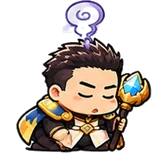
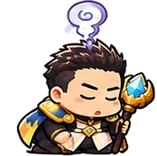
Normalise 추진팀장/개발팀장 pose sizes to the standing pose
- Scale run/attack/victory frames so the figure height (effects excluded)
  matches the idle pose; hit/down use the run scale
- 추진팀장 action frames get an extra 0.9 factor because the standalone
  idle art has a smaller head ratio than the sheet
- Drop the earlier per-team 1.14 / idle-canvas workarounds

Claude-Session: https://claude.ai/code/session_01MvzzvQc6xr2KAW6vgqiYJS

diff --git a/tools/build_sprites.py b/tools/build_sprites.py
@@ -290,6 +290,24 @@ CAPTAINS = {
     }),
 }
 CAP_SCALE = 170 / 245  # 모든 프레임 동일 배율
+# 자세별 인물 키 / 대기 자세 인물 키 (추진·개발팀장: 어떤 자세든 서 있을 때와 비슷한 크기로 보이게)
+POSE_RATIO_TEAMS = ('push', 'dev')
+POSE_RATIO = {'run': 0.95, 'atk': 1.0, 'victory': 1.0}
+# 추진팀장 대기 그림(단독 일러스트)은 시트보다 머리가 작은 비율이라, 동작 그림을 조금 낮춰야 같은 크기로 보임
+POSE_TEAM_K = {'push': 0.9, 'dev': 1.0}
+
+def fig_height(im):
+    """이펙트(파란 글로우·노란 빛)를 뺀 인물 덩어리의 세로 길이"""
+    a = np.array(im.convert('RGBA')).astype(int)
+    r, g, b, al = a[..., 0], a[..., 1], a[..., 2], a[..., 3]
+    fx = ((b > 170) & (b - r > 70)) | ((r > 200) & (g > 180) & (b < 140))
+    m = (al > 128) & ~fx
+    lab, n = ndimage.label(ndimage.binary_dilation(m, iterations=2))
+    if n == 0:
+        return im.height
+    k = int(np.argmax(ndimage.sum(m, lab, range(1, n + 1)))) + 1
+    ys = np.where((lab == k) & m)[0]
+    return ys.max() - ys.min() + 1
 for team, (fname, needs_bg, B) in CAPTAINS.items():
     sheet = Image.open(os.path.join(SRC, fname))
     if sheet.mode == 'RGBA' and needs_bg:
@@ -311,27 +329,41 @@ for team, (fname, needs_bg, B) in CAPTAINS.items():
         sheet = sheet.convert('RGBA')
     a = np.array(sheet); a[:, :, 3][a[:, :, 3] < 30] = 0; sheet = Image.fromarray(a)
     fx_sheet = sheet if fx_sheet is None else fx_sheet
-    for i, b in enumerate(B['idle']):
-        save(f'cap_{team}_idle_{i}', largest(crop(sheet, *b)), scale=CAP_SCALE, center=True)
-    # 개발팀장 시트는 대기 그림에 비해 동작 그림이 작게 그려져 있어, 게임에서 사업팀장과 같은 크기로 보이도록 동작 프레임만 키움
-    fs = CAP_SCALE * (1.14 if team == 'dev' else 1)
-    for i, b in enumerate(B['run']):
-        save(f'cap_{team}_run_{i}', largest(crop(sheet, *b)), scale=fs, center=True)
-    for i, b in enumerate(B['atk']):
-        save(f'cap_{team}_atk_{i}', largest(crop(sheet, *b)), scale=fs, center=True)
-    for k in ('hit', 'victory'):
-        save(f'cap_{team}_{k}', largest(crop(sheet, *B[k])), scale=fs, center=True)
-    save(f'cap_{team}_down', largest(crop(sheet, *B['down'])), scale=fs)
+    if team == 'push':
+        # 추진팀장 기본 서 있는 모습: 단독 일러스트(추진팀장2.png)
+        save('cap_push_idle_0', largest(load('추진팀장2.png')), height=160, center=True)
+    else:
+        for i, b in enumerate(B['idle']):
+            save(f'cap_{team}_idle_{i}', largest(crop(sheet, *b)), scale=CAP_SCALE, center=True)
+    if team in POSE_RATIO_TEAMS:
+        # 시트의 동작 그림은 대기 그림과 그려진 크기가 달라, 인물 키(이펙트 제외)를 대기 자세 기준 비율로 맞춤
+        idle_fig = fig_height(Image.open(os.path.join(OUT, f'cap_{team}_idle_0.webp')))
+        def fit(im, ratio):
+            return POSE_TEAM_K[team] * ratio * idle_fig / fig_height(im)
+        run_scales = []
+        for i, b in enumerate(B['run']):
+            im = largest(crop(sheet, *b)); sc = fit(im, POSE_RATIO['run']); run_scales.append(sc)
+            save(f'cap_{team}_run_{i}', im, scale=sc, center=True)
+        for i, b in enumerate(B['atk']):
+            im = largest(crop(sheet, *b))
+            save(f'cap_{team}_atk_{i}', im, scale=fit(im, POSE_RATIO['atk']), center=True)
+        im = largest(crop(sheet, *B['victory']))
+        save(f'cap_{team}_victory', im, scale=fit(im, POSE_RATIO['victory']), center=True)
+        # 피격(웅크림)·쓰러짐은 키가 원래 작은 자세라 달리기와 같은 배율 사용
+        save(f'cap_{team}_hit', largest(crop(sheet, *B['hit'])), scale=sum(run_scales) / len(run_scales), center=True)
+        save(f'cap_{team}_down', largest(crop(sheet, *B['down'])), scale=sum(run_scales) / len(run_scales))
+    else:
+        for i, b in enumerate(B['run']):
+            save(f'cap_{team}_run_{i}', largest(crop(sheet, *b)), scale=CAP_SCALE, center=True)
+        for i, b in enumerate(B['atk']):
+            save(f'cap_{team}_atk_{i}', largest(crop(sheet, *b)), scale=CAP_SCALE, center=True)
+        for k in ('hit', 'victory'):
+            save(f'cap_{team}_{k}', largest(crop(sheet, *B[k])), scale=CAP_SCALE, center=True)
+        save(f'cap_{team}_down', largest(crop(sheet, *B['down'])), scale=CAP_SCALE)
     save(f'cap_{team}_revive', largest(crop(sheet, *B['revive']), keep_all=True, dil=8), scale=CAP_SCALE)
     save(f'cap_{team}_icon', largest(crop(sheet, *B['icon'])), height=96)
     save(f'cap_{team}_emblem', largest(crop(sheet, *B['emblem']), dil=8), height=72)
     save(f'fx_cap_{team}_bolt', largest(crop(fx_sheet, *B['bolt']), dil=8), height=60)
-    if team == 'push':
-        # 추진팀장 기본 서 있는 모습: 단독 일러스트(추진팀장2.png)를 시트 대기 프레임과 같은 키로 맞춤
-        # 게임은 대기 그림 높이로 전체 배율을 정하므로, 달리기 모습이 사업팀장과 같은 약 78px로 보이게 대기 높이를 정함
-        run_h = largest(crop(sheet, *B['run'][0])).height * CAP_SCALE
-        idle_h = round(run_h * 82 / 78)
-        save('cap_push_idle_0', largest(load('추진팀장2.png')), height=idle_h, center=True)
 
 # 게임 코드용 목록 갱신
 keys = sorted(k for k in manifest if not k.startswith(('title_', 'tile_', 'intro_', 'diorama')))
